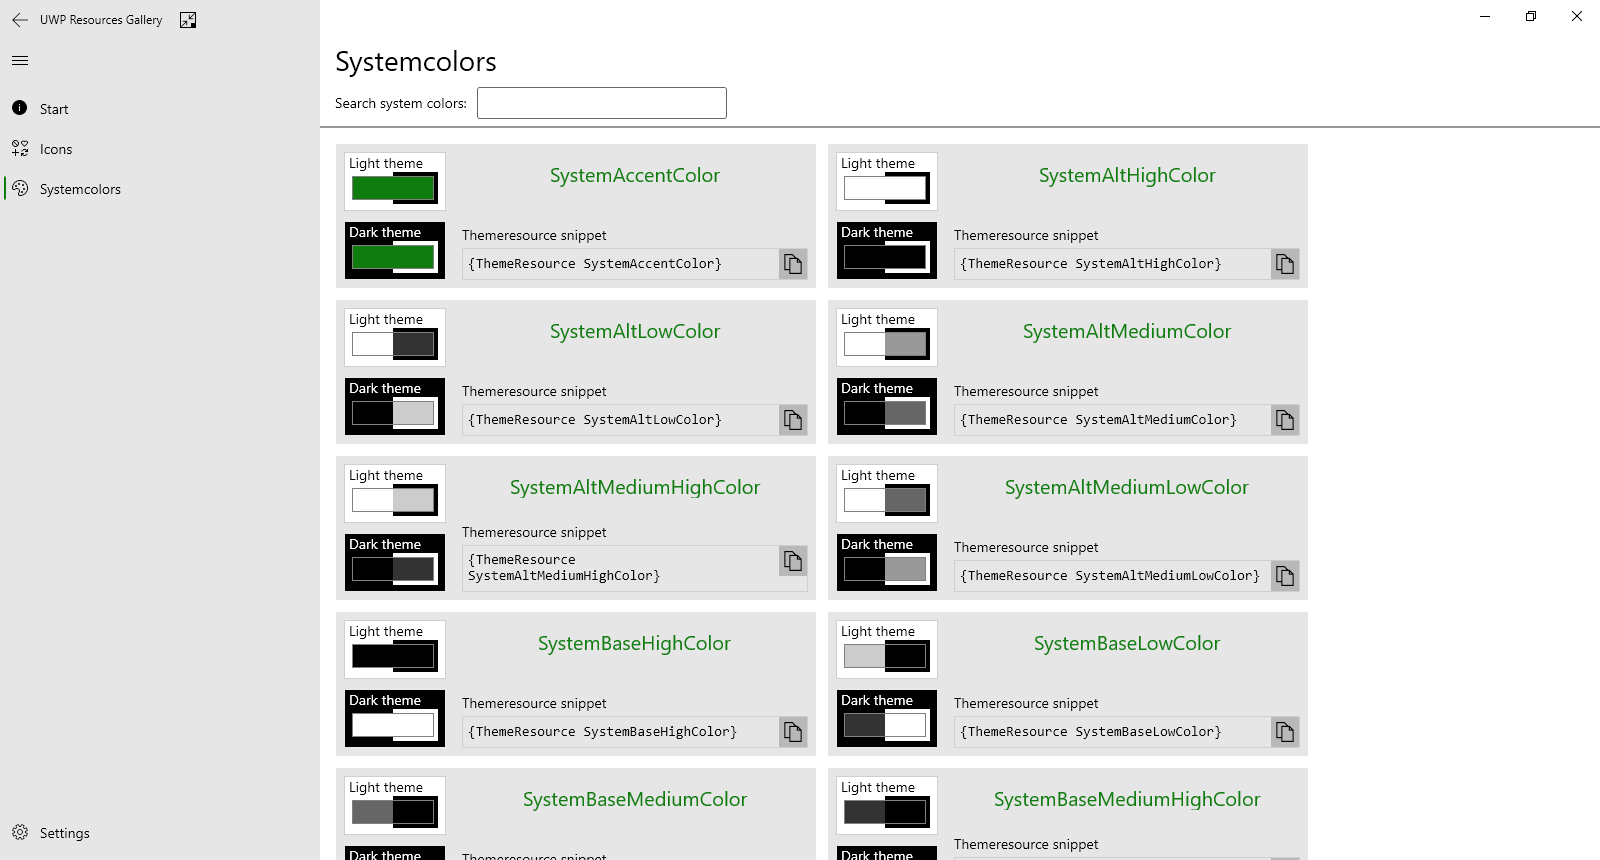
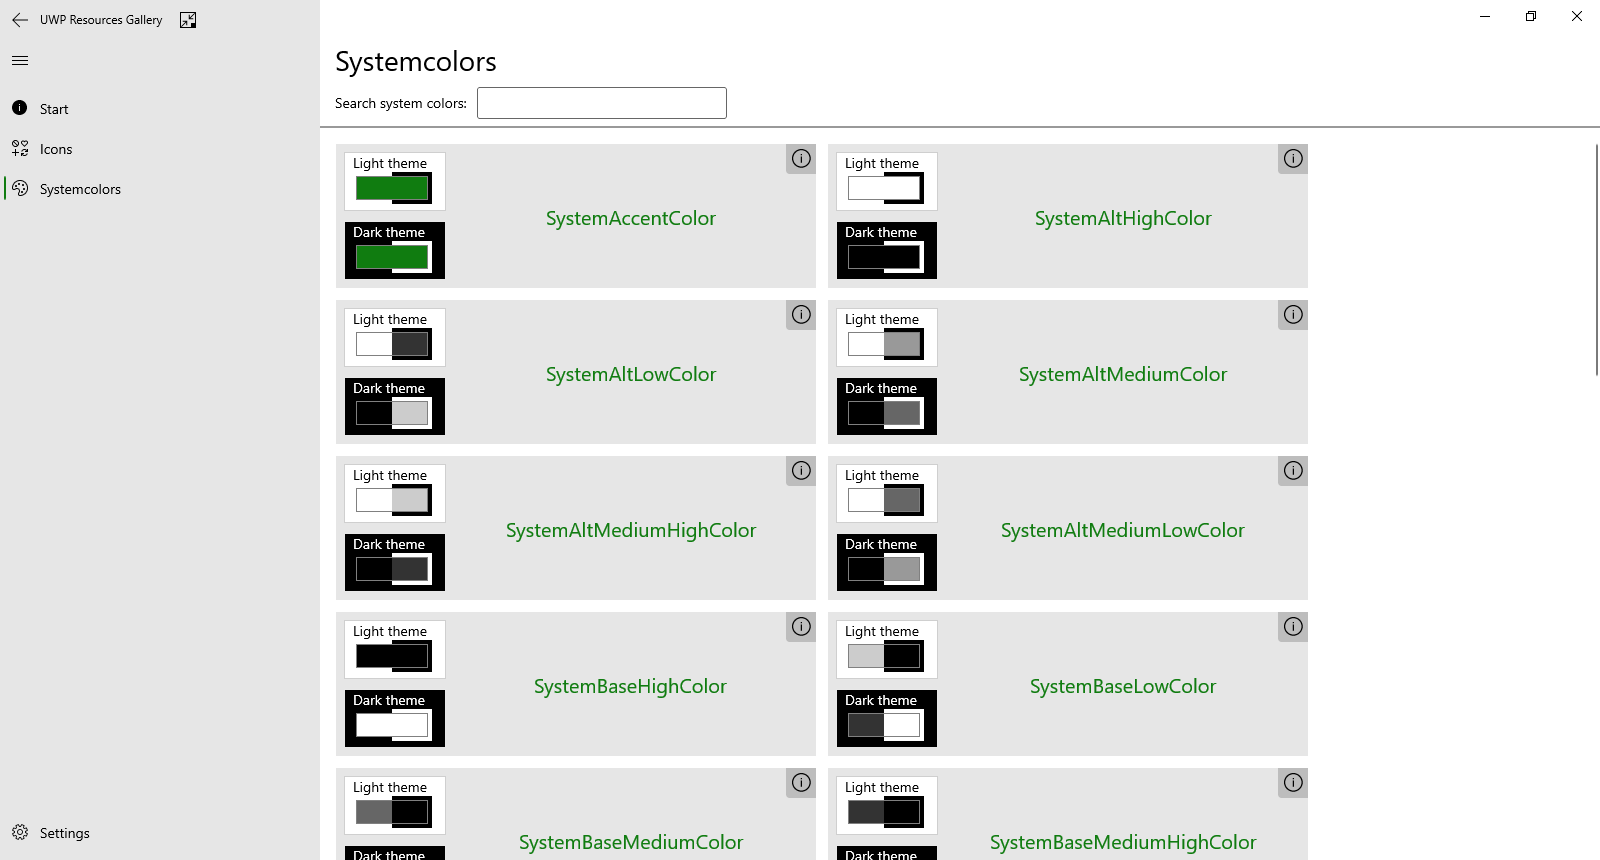
Add popups that display hex colors for system colors (#9)
* Add hex colors teachingtip for system colors

* Update screenshot

* Add new test

* Update test

diff --git a/src/UWPResourcesGallery/Controls/Templates/SystemColorPresenter.xaml b/src/UWPResourcesGallery/Controls/Templates/SystemColorPresenter.xaml
@@ -2,26 +2,32 @@
     x:Class="UWPResourcesGallery.Controls.Templates.SystemColorPresenter"
     xmlns="http://schemas.microsoft.com/winfx/2006/xaml/presentation"
     xmlns:x="http://schemas.microsoft.com/winfx/2006/xaml"
-    xmlns:local="using:UWPResourcesGallery.Controls.Templates"
     xmlns:d="http://schemas.microsoft.com/expression/blend/2008"
     xmlns:mc="http://schemas.openxmlformats.org/markup-compatibility/2006"
     xmlns:common="using:UWPResourcesGallery.Controls.Common"
+    xmlns:muxc="using:Microsoft.UI.Xaml.Controls"
+    xmlns:Windows10version1809="http://schemas.microsoft.com/winfx/2006/xaml/presentation?IsApiContractPresent(Windows.Foundation.UniversalApiContract, 7)"
     mc:Ignorable="d"
     d:DesignHeight="300"
     d:DesignWidth="400">
 
-    <Grid Padding="8" Width="480" Background="{ThemeResource SystemControlBackgroundListLowBrush}">
+    <UserControl.Resources>
+        <muxc:TeachingTip x:Key="InfoTeachingTip" IsLightDismissEnabled="True" Title="Information" Subtitle=""/>
+    </UserControl.Resources>
+
+    <Grid Padding="8" Width="480" Background="{ThemeResource SystemControlBackgroundListLowBrush}" >
         <Grid.ColumnDefinitions>
             <ColumnDefinition Width="Auto"/>
-            <ColumnDefinition Width="16"/>
+            <ColumnDefinition Width="8"/>
             <ColumnDefinition Width="*"/>
         </Grid.ColumnDefinitions>
         
+        <!-- Showcase for systemcolor -->
         <common:DualThemePresenter Width="102" Grid.Row="0" Grid.RowSpan="4">
             <common:DualThemePresenter.LightThemeContent>
-                <StackPanel Width="102">
+                <StackPanel Width="92">
                     <TextBlock Margin="4,0,0,0" Text="Light theme"/>
-                    <Border Width="90" Margin="2,0,8,6" BorderThickness="0">
+                    <Border Width="80" Margin="2,0,8,6" BorderThickness="0">
                         <!--White and black background for opaque colors-->
                         <Border.Background>
                             <LinearGradientBrush StartPoint="0,0" EndPoint="1,0">
@@ -40,9 +46,9 @@
             </common:DualThemePresenter.LightThemeContent>
 
             <common:DualThemePresenter.DarkThemeContent>
-                <StackPanel Width="102">
+                <StackPanel Width="92">
                     <TextBlock Margin="4,0,0,0" Text="Dark theme"/>
-                    <Border Width="90" Margin="2,0,8,6" BorderThickness="0">
+                    <Border Width="80" Margin="2,0,8,6" BorderThickness="0">
                         <!--Black and white background for opaque colors-->
                         <Border.Background>
                             <LinearGradientBrush StartPoint="1,0" EndPoint="0,0">
@@ -61,20 +67,17 @@
             </common:DualThemePresenter.DarkThemeContent>
         </common:DualThemePresenter>
 
-        <Grid Grid.Column="2" HorizontalAlignment="Stretch" VerticalAlignment="Stretch">
-            <Grid.RowDefinitions>
-                <RowDefinition Height="Auto"/>
-                <RowDefinition Height="*"/>
-                <RowDefinition Height="Auto"/>
-                <RowDefinition Height="Auto"/>
-            </Grid.RowDefinitions>
-            
-            <TextBlock x:Name="BrushName" Text="{x:Bind SystemColor.Key}" FontSize="20" Foreground="{ThemeResource SystemAccentColor}"
-                HorizontalAlignment="Center" Margin="0,8,0,16" VerticalAlignment="Stretch" IsTextSelectionEnabled="True"
-                Grid.Row="0" Grid.RowSpan="2"/>
+        <!-- System color name -->
+        <TextBlock x:Name="BrushName" Text="{x:Bind SystemColor.Key}" FontSize="20" Foreground="{ThemeResource SystemAccentColor}"
+            HorizontalAlignment="Center" VerticalAlignment="Center" IsTextSelectionEnabled="True"
+            Grid.Column="2"/>
 
-            <TextBlock Grid.Row="2" HorizontalAlignment="Stretch" Margin="0,8,0,4" Text="Themeresource snippet"/>
-            <common:CodeSample Grid.Row="3" HorizontalAlignment="Stretch" IsSyntaxHighlightingEnabled="True" Code="{x:Bind SystemColor.ThemeResourceString}"/>
-        </Grid>
+        <!-- Info button -->
+        <Button Style="{ThemeResource ButtonRevealStyle}" Grid.ColumnSpan="3"
+                x:Name="OpenInfoTeachingTipButton" Click="OpenInfoTeachingTipButton_Click"
+                VerticalAlignment="Top" HorizontalAlignment="Right" Padding="0" Windows10version1809:CornerRadius="0,0,0,3"
+                Margin="0,-8,-8,0" Height="30" Width="30" ToolTipService.ToolTip="View additional information">
+            <FontIcon Glyph="&#xE946;" VerticalAlignment="Center" HorizontalAlignment="Stretch" Width="30"/>
+        </Button>
     </Grid>
 </UserControl>

diff --git a/src/UWPResourcesGallery/Controls/Templates/SystemColorInformation.xaml b/src/UWPResourcesGallery/Controls/Templates/SystemColorInformation.xaml
@@ -1,0 +1,62 @@
+<UserControl
+    x:Class="UWPResourcesGallery.Controls.Templates.SystemColorInformation"
+    xmlns="http://schemas.microsoft.com/winfx/2006/xaml/presentation"
+    xmlns:x="http://schemas.microsoft.com/winfx/2006/xaml"
+    xmlns:local="using:UWPResourcesGallery.Controls.Templates"
+    xmlns:d="http://schemas.microsoft.com/expression/blend/2008"
+    xmlns:mc="http://schemas.openxmlformats.org/markup-compatibility/2006"
+    xmlns:common="using:UWPResourcesGallery.Controls.Common"
+    mc:Ignorable="d"
+    d:DesignHeight="300"
+    d:DesignWidth="400">
+    
+    <StackPanel>
+        <!-- Hex codes -->
+        <Grid>
+            <Grid.ColumnDefinitions>
+                <ColumnDefinition Width="1*"/>
+                <ColumnDefinition Width="1*"/>
+            </Grid.ColumnDefinitions>
+            <!-- Light theme hex code -->
+            <StackPanel>
+                <TextBlock Text="Light theme"/>
+                <Grid Background="{ThemeResource SystemChromeMediumColor}" BorderThickness="1"
+                            BorderBrush="{ThemeResource SystemControlBackgroundListLowBrush}">
+                    <Grid.ColumnDefinitions>
+                        <ColumnDefinition Width="*"/>
+                        <ColumnDefinition Width="Auto"/>
+                    </Grid.ColumnDefinitions>
+                    
+                    <TextBlock x:Name="lightThemeHexCodeBlock" VerticalAlignment="Center"
+                            FontFamily="Consolas" Margin="8,0,4,0" IsTextSelectionEnabled="True"/>
+
+                    <Button Style="{ThemeResource CopyButtonStyle}" Grid.Column="1"
+                            Click="CopyLightThemeHexCode" Margin="4,0,0,0" ToolTipService.ToolTip="Copy unformated hex code to clipboards"/>
+                </Grid>
+            </StackPanel>
+
+            <!-- Dark theme hex code -->
+            <StackPanel Margin="8,0,0,0" Grid.Column="1">
+                <TextBlock Text="Dark theme"/>
+                <Grid Background="{ThemeResource SystemChromeMediumColor}" BorderThickness="1"
+                            BorderBrush="{ThemeResource SystemControlBackgroundListLowBrush}">
+                    <Grid.ColumnDefinitions>
+                        <ColumnDefinition Width="*"/>
+                        <ColumnDefinition Width="Auto"/>
+                    </Grid.ColumnDefinitions>
+                    
+                    <TextBlock x:Name="darkThemeHexCodeBlock" VerticalAlignment="Center" 
+                            FontFamily="Consolas" Margin="8,0,4,0" IsTextSelectionEnabled="True"/>
+                    
+                    <Button Style="{ThemeResource CopyButtonStyle}" Grid.Column="1"
+                            Click="CopyDarkThemeHexCode" Margin="4,0,0,0" ToolTipService.ToolTip="Copy unformated hex code to clipboards"/>
+                </Grid>
+            </StackPanel>
+        </Grid>
+
+        <!-- Themeresource snippet -->
+        <TextBlock Grid.Row="2" HorizontalAlignment="Stretch" Margin="0,16,0,4" Text="Themeresource snippet"/>
+        <common:CodeSample x:Name="ThemeresourceCodeSample" Grid.Row="3" HorizontalAlignment="Stretch" IsSyntaxHighlightingEnabled="True"/>
+
+    </StackPanel>
+</UserControl>

diff --git a/tests/ControlTests/ControlsTestPage.xaml b/tests/ControlTests/ControlsTestPage.xaml
@@ -45,6 +45,8 @@
                 </common:CodeSample.Code>
             </common:CodeSample>
         </StackPanel>
-        
+
+
+        <StackPanel x:Name="SystemColorInformationPanel" />
     </StackPanel>
 </Page>

diff --git a/src/UWPResourcesGallery/Controls/Templates/SystemColorInformation.xaml.cs b/src/UWPResourcesGallery/Controls/Templates/SystemColorInformation.xaml.cs
@@ -1,0 +1,57 @@
+using System;
+using UWPResourcesGallery.Model.Colors;
+using Windows.ApplicationModel.DataTransfer;
+using Windows.UI.Xaml;
+using Windows.UI.Xaml.Controls;
+
+// The User Control item template is documented at https://go.microsoft.com/fwlink/?LinkId=234236
+
+namespace UWPResourcesGallery.Controls.Templates
+{
+    public sealed partial class SystemColorInformation : UserControl
+    {
+        private SystemColor SystemColor;
+
+        public SystemColorInformation(SystemColor systemColor)
+        {
+            SystemColor = systemColor ?? throw new ArgumentNullException(nameof(systemColor));
+
+            InitializeComponent();
+
+            UpdateSnippets();
+        }
+
+        private void UpdateSnippets()
+        {
+            lightThemeHexCodeBlock.Text = SystemColor.LightHex.Substring(0, 3);
+            darkThemeHexCodeBlock.Text = SystemColor.DarkHex.Substring(0, 3);
+
+            if (!SystemColor.LightHex.Equals("N/A", StringComparison.InvariantCultureIgnoreCase))
+            {
+                int lastIndex = 3;
+                for (int curIndex = 0; curIndex < 3; curIndex++)
+                {
+                    lightThemeHexCodeBlock.Text += " " + SystemColor.LightHex.Substring(lastIndex, 2);
+                    darkThemeHexCodeBlock.Text += " " + SystemColor.DarkHex.Substring(lastIndex, 2);
+                    lastIndex += 2;
+                }
+            }
+
+            ThemeresourceCodeSample.Code = SystemColor.ThemeResourceString;
+            UpdateLayout();
+        }
+
+        private void CopyLightThemeHexCode(object sender, RoutedEventArgs e)
+        {
+            DataPackage package = new DataPackage();
+            package.SetText(SystemColor.LightHex);
+            Clipboard.SetContent(package);
+        }
+        private void CopyDarkThemeHexCode(object sender, RoutedEventArgs e)
+        {
+            DataPackage package = new DataPackage();
+            package.SetText(SystemColor.DarkHex);
+            Clipboard.SetContent(package);
+        }
+    }
+}

diff --git a/tests/ControlTests/UITests/SystemColorInformationTests.cs b/tests/ControlTests/UITests/SystemColorInformationTests.cs
@@ -1,0 +1,34 @@
+using Microsoft.VisualStudio.TestTools.UnitTesting;
+using Microsoft.VisualStudio.TestTools.UnitTesting.AppContainer;
+using Windows.UI.Xaml;
+using Windows.UI.Xaml.Controls;
+using Windows.UI.Xaml.Media;
+
+namespace ControlTests.UITests
+{
+    [TestClass]
+    public class SystemColorInformationTests
+    {
+        [UITestMethod]
+        public void VerifyRenderedText()
+        {
+            var panel = (StackPanel)ControlsTestPage.Instance.FindName("SystemColorInformationPanel");
+            var systemControlInformation = panel.Children[0];
+
+            var rootStackPanel = VisualTreeHelper.GetChild(systemControlInformation, 0);
+            var hexCodeGrid = VisualTreeHelper.GetChild(rootStackPanel, 0);
+
+            var lightStackPanel = VisualTreeHelper.GetChild(hexCodeGrid, 0);
+            Assert.AreEqual("col or Li gh", GetTextBlock(lightStackPanel).Text);
+            
+            var darkStackPanel = VisualTreeHelper.GetChild(hexCodeGrid, 1);
+            Assert.AreEqual("col or Da rk", GetTextBlock(darkStackPanel).Text);
+        }
+
+        private TextBlock GetTextBlock(DependencyObject container)
+        {
+            var grid = VisualTreeHelper.GetChild(container, 1);
+            return VisualTreeHelper.GetChild(grid, 0) as TextBlock;
+        }
+    }
+}

diff --git a/tests/AppInteractionTests/Tests/SystemColorsPageTests.cs b/tests/AppInteractionTests/Tests/SystemColorsPageTests.cs
@@ -15,16 +15,13 @@ namespace AppInteractionTests.Tests
         [TestMethod]
         public void RendersBrushes()
         {
-            string[] brushes = new string[] { "SystemAccentColor", "SystemAltHighColor" };
+            string[] brushes = new string[] { "SystemAltHighColor", "SystemAltLowColor" };
             foreach (string brushName in brushes)
             {
                 var blocks = TestHelper.GetElementsOfTypeWithContent("Text", brushName);
-                Assert.AreEqual(2, blocks.Count);
+                Assert.AreEqual(1, blocks.Count);
 
                 Assert.IsTrue(brushName.Equals(blocks[0].Text, StringComparison.InvariantCulture));
-
-                var snippetString = "{ThemeResource " + brushName + "}\r\n";
-                Assert.IsTrue(snippetString.Equals(blocks[1].Text, StringComparison.InvariantCulture));
             }
         }
 

diff --git a/src/UWPResourcesGallery/Controls/Templates/SystemColorPresenter.xaml.cs b/src/UWPResourcesGallery/Controls/Templates/SystemColorPresenter.xaml.cs
@@ -1,4 +1,5 @@
-using UWPResourcesGallery.Model.Colors;
+using Microsoft.UI.Xaml.Controls;
+using UWPResourcesGallery.Model.Colors;
 using Windows.UI.Xaml;
 using Windows.UI.Xaml.Controls;
 
@@ -42,6 +43,16 @@ namespace UWPResourcesGallery.Controls.Templates
         private void SystemColorChanged()
         {
             Bindings.Update();
+        }
+
+        private void OpenInfoTeachingTipButton_Click(object sender, RoutedEventArgs e)
+        {
+            var teachingTip = Resources["InfoTeachingTip"] as TeachingTip;
+            teachingTip.Content = new SystemColorInformation(SystemColor);
+            teachingTip.Target = OpenInfoTeachingTipButton;
+            teachingTip.IsOpen = true;
+
+            teachingTip.Subtitle = "";
         }
     }
 }

diff --git a/tests/ControlTests/ControlsTestPage.xaml.cs b/tests/ControlTests/ControlsTestPage.xaml.cs
@@ -3,6 +3,8 @@ using System.Collections.Generic;
 using System.IO;
 using System.Linq;
 using System.Runtime.InteropServices.WindowsRuntime;
+using UWPResourcesGallery.Controls.Templates;
+using UWPResourcesGallery.Model.Colors;
 using Windows.Foundation;
 using Windows.Foundation.Collections;
 using Windows.UI.Xaml;
@@ -31,6 +33,11 @@ namespace ControlTests
         {
             InitializeComponent();
             Instance = this;
+
+
+            var systemColor = new SystemColor("SystemAccentColor","colorName","colorLightHex","colorDarkHex");
+            SystemColorInformationPanel.Children.Add(new SystemColorInformation(systemColor));
+            SystemColorInformationPanel.UpdateLayout();
         }
     }
 }

diff --git a/tests/ControlTests/UnitTestApp.xaml.cs b/tests/ControlTests/UnitTestApp.xaml.cs
@@ -1,18 +1,8 @@
 using System;
-using System.Collections.Generic;
-using System.IO;
-using System.Linq;
-using System.Runtime.InteropServices.WindowsRuntime;
 using Windows.ApplicationModel;
 using Windows.ApplicationModel.Activation;
-using Windows.Foundation;
-using Windows.Foundation.Collections;
 using Windows.UI.Xaml;
 using Windows.UI.Xaml.Controls;
-using Windows.UI.Xaml.Controls.Primitives;
-using Windows.UI.Xaml.Data;
-using Windows.UI.Xaml.Input;
-using Windows.UI.Xaml.Media;
 using Windows.UI.Xaml.Navigation;
 
 namespace ControlTests
